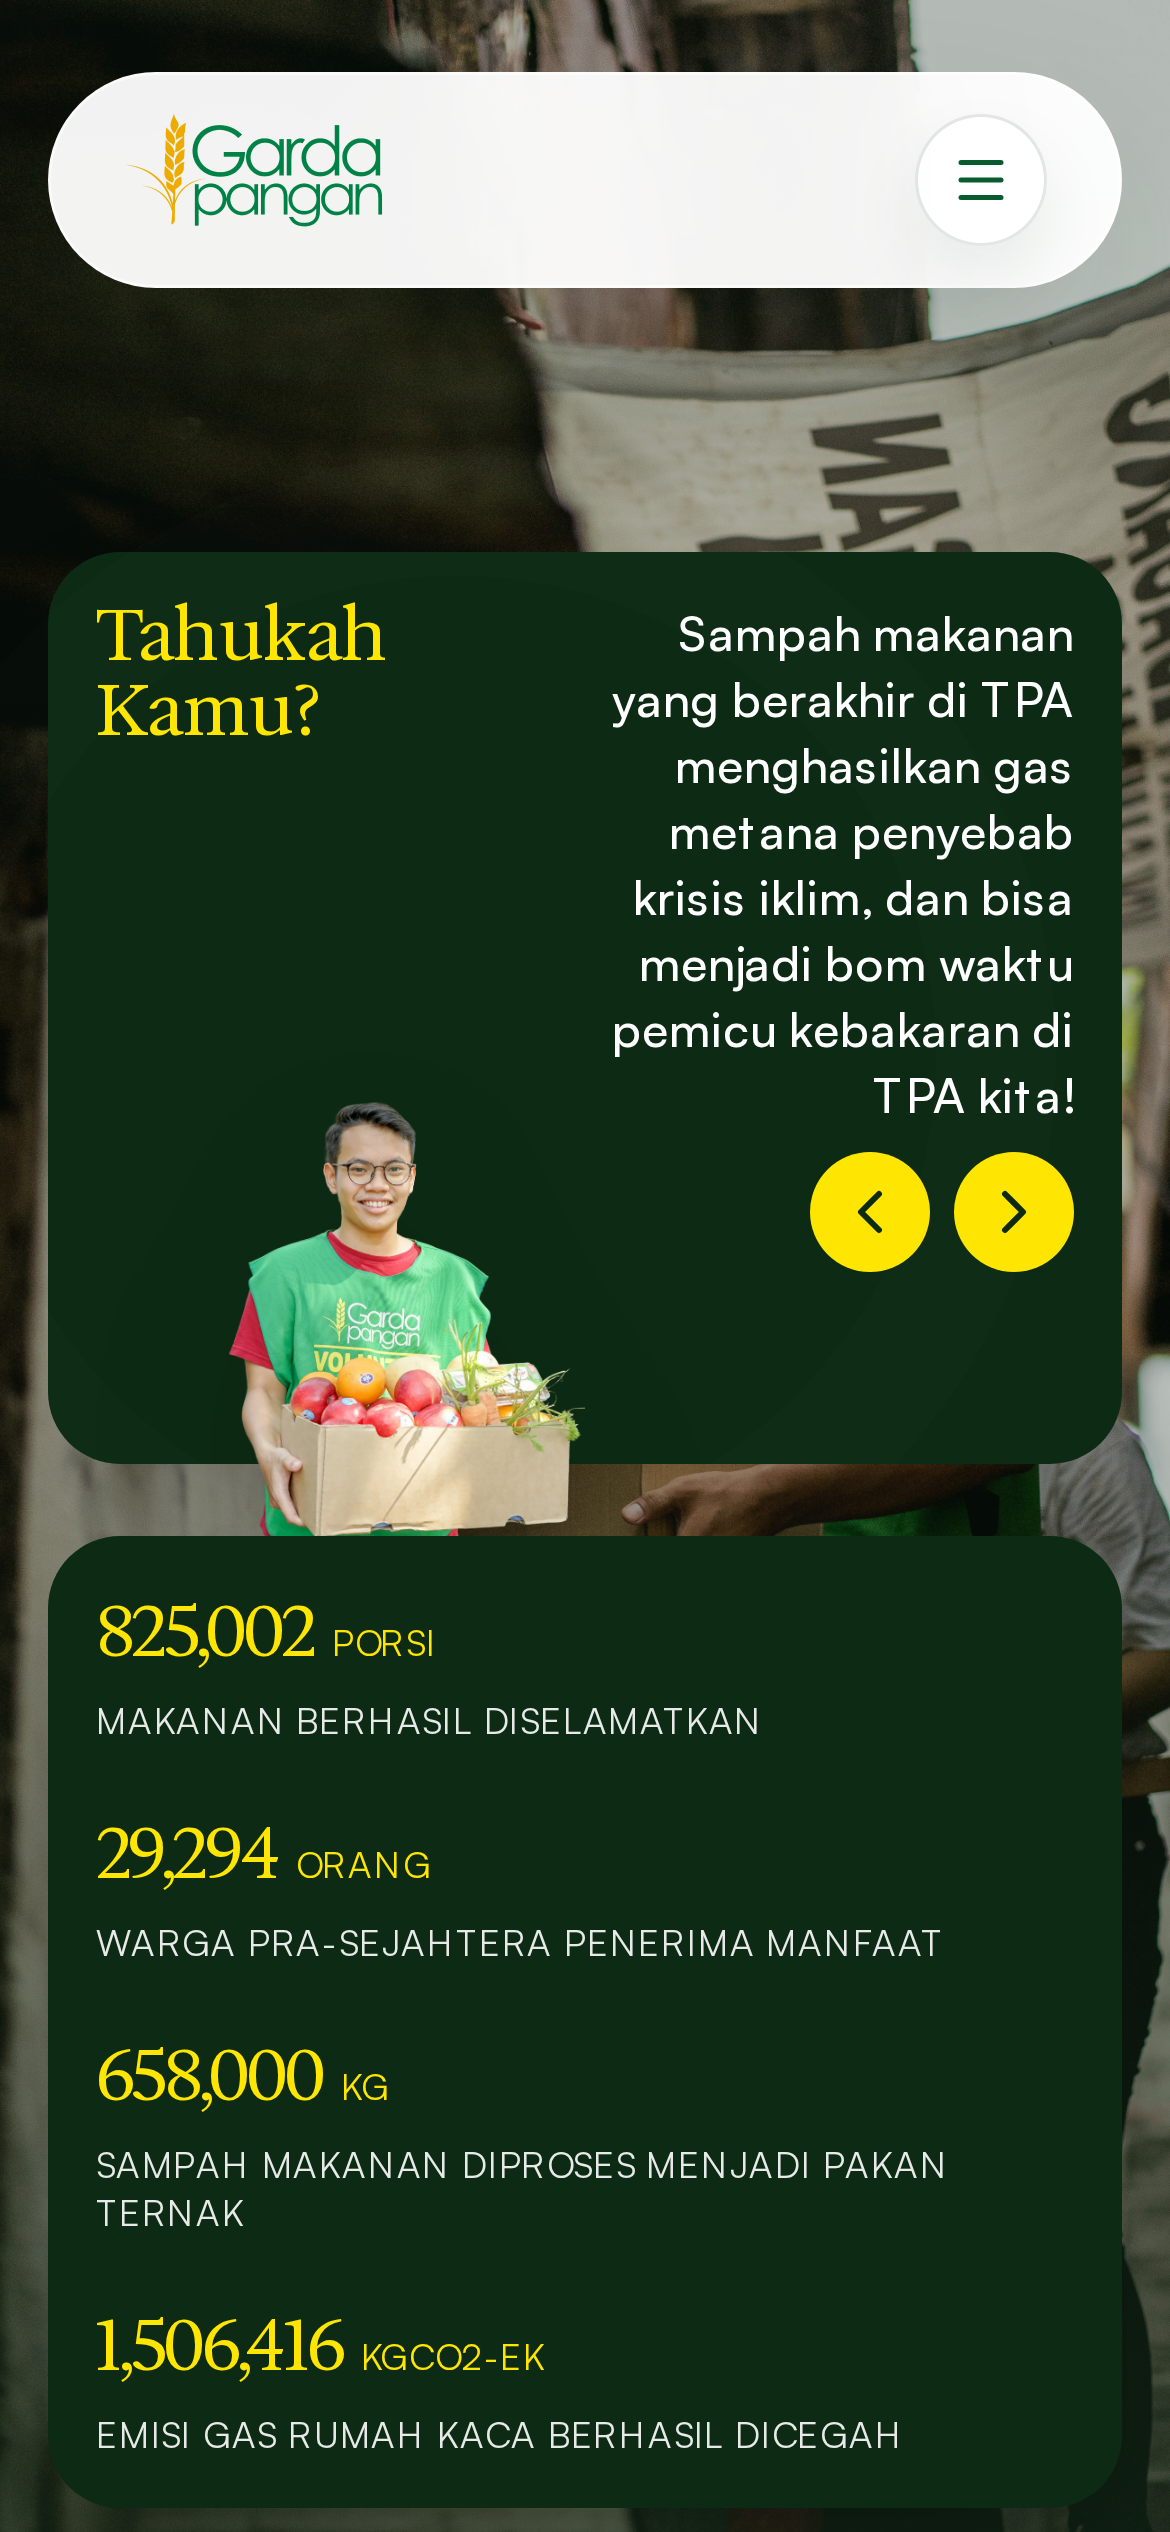
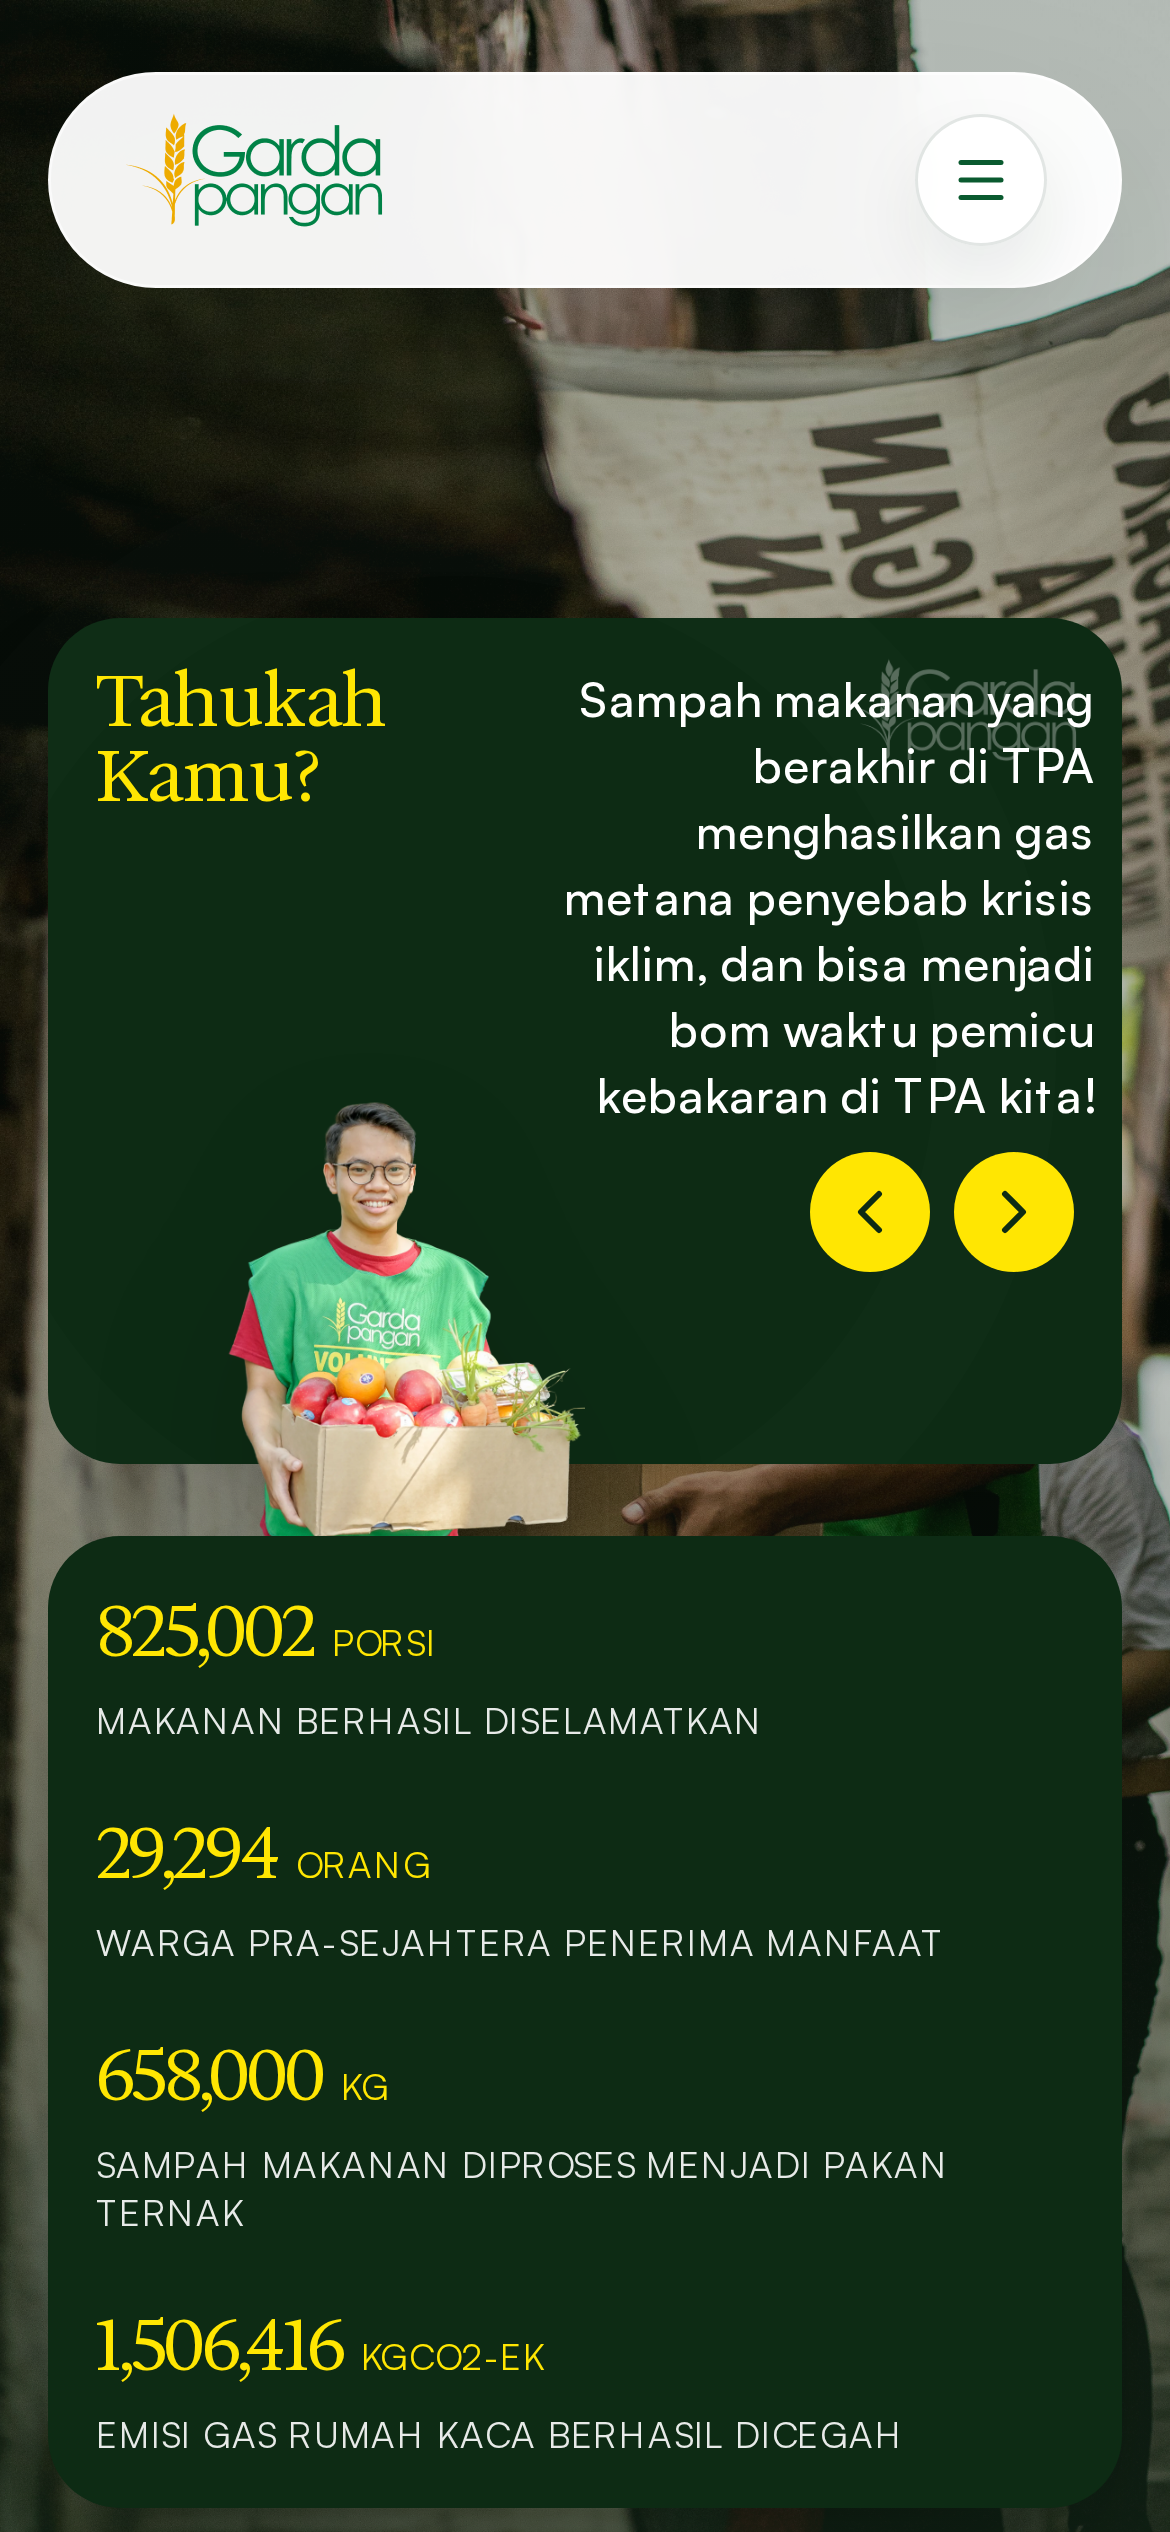
Show Garda Pangan watermark top-right on mobile hero facts card
Move GardaLogo to absolute top-right of the top slider card at all
breakpoints. Reshoot verify-shots 02 and 04.

Changed region(s): [[0.0308, 0.2184, 0.9538, 0.4368]]

diff --git a/src/components/hero-facts-block.tsx b/src/components/hero-facts-block.tsx
@@ -181,6 +181,13 @@ export function HeroFactsBlock({
             </svg>
           </div>
 
+          <div
+            aria-hidden="true"
+            className="pointer-events-none absolute right-3 top-3 z-[1] sm:right-4 sm:top-4"
+          >
+            <GardaLogo className="origin-top-right shrink-0 scale-90 transform opacity-30 invert brightness-0 md:scale-110" />
+          </div>
+
           <div className="relative z-10 grid grid-cols-[minmax(0,42%)_minmax(0,58%)] items-start gap-x-3 gap-y-2 md:gap-8">
             <div className="flex min-w-0 flex-col items-start justify-start gap-0">
               <h2
@@ -189,7 +196,6 @@ export function HeroFactsBlock({
               >
                 {renderDidYouKnowTitle(title)}
               </h2>
-              <GardaLogo className="pointer-events-none mt-4 hidden origin-top-left shrink-0 scale-150 transform opacity-30 invert brightness-0 md:block" />
             </div>
             <div className="flex w-full min-w-[11.5rem] flex-col justify-start self-stretch pt-0 md:max-w-md md:pt-1">
               <DidYouKnowCarouselInternal slides={didYouKnowSlides} />
